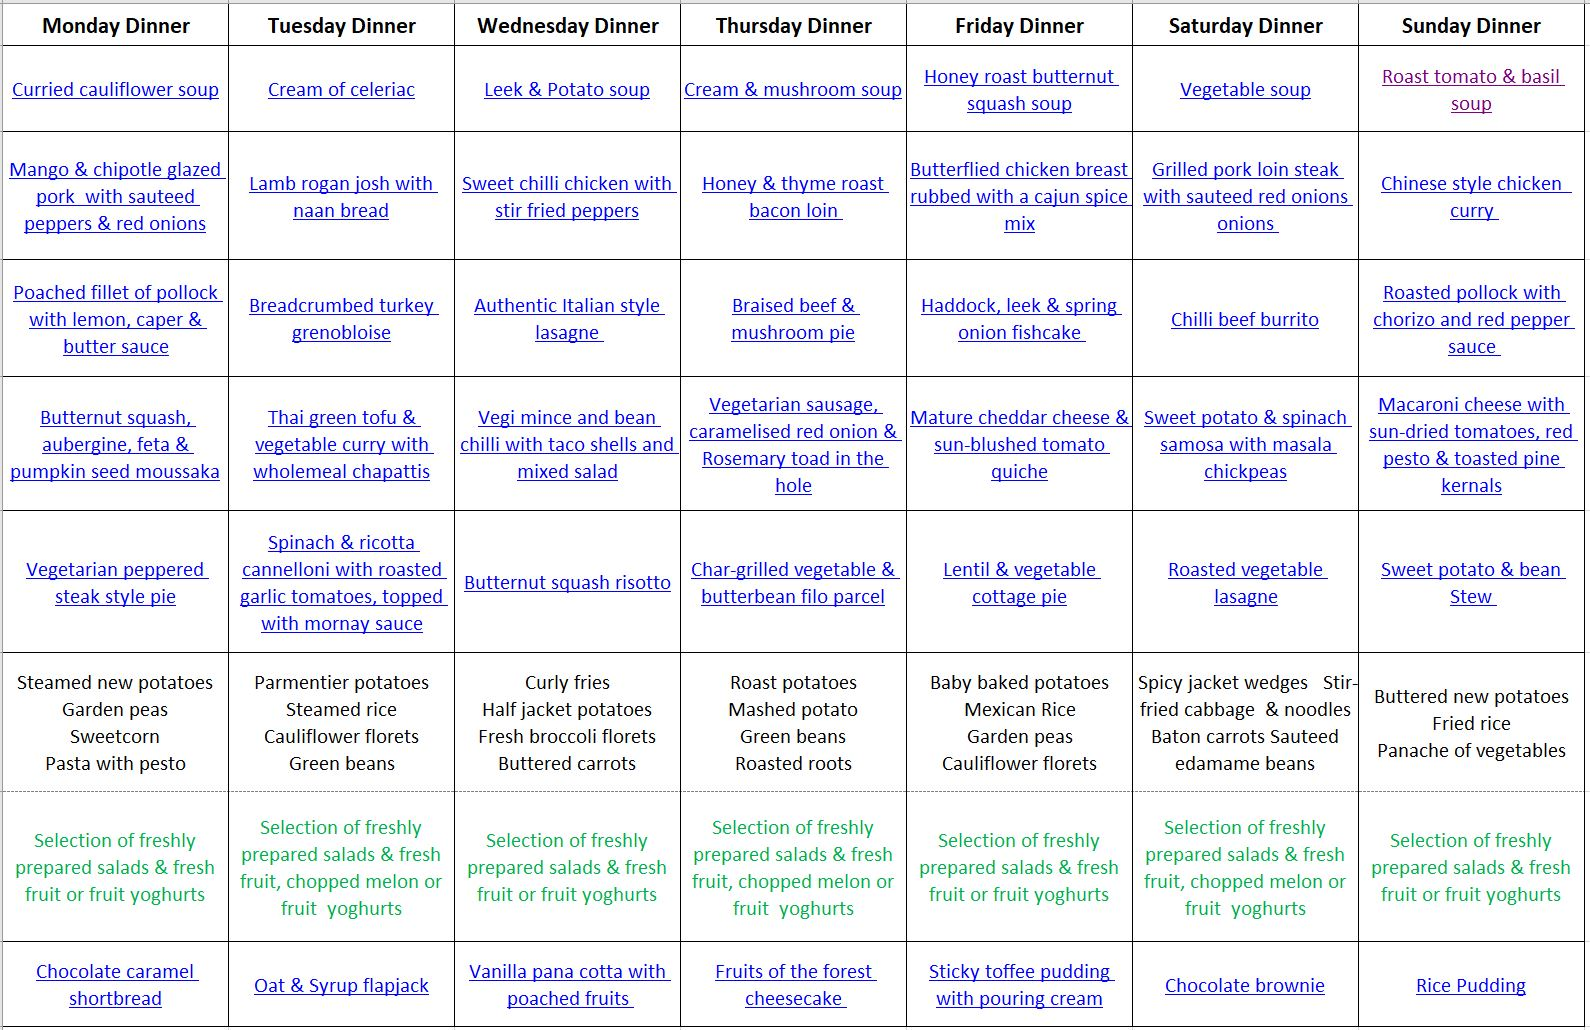
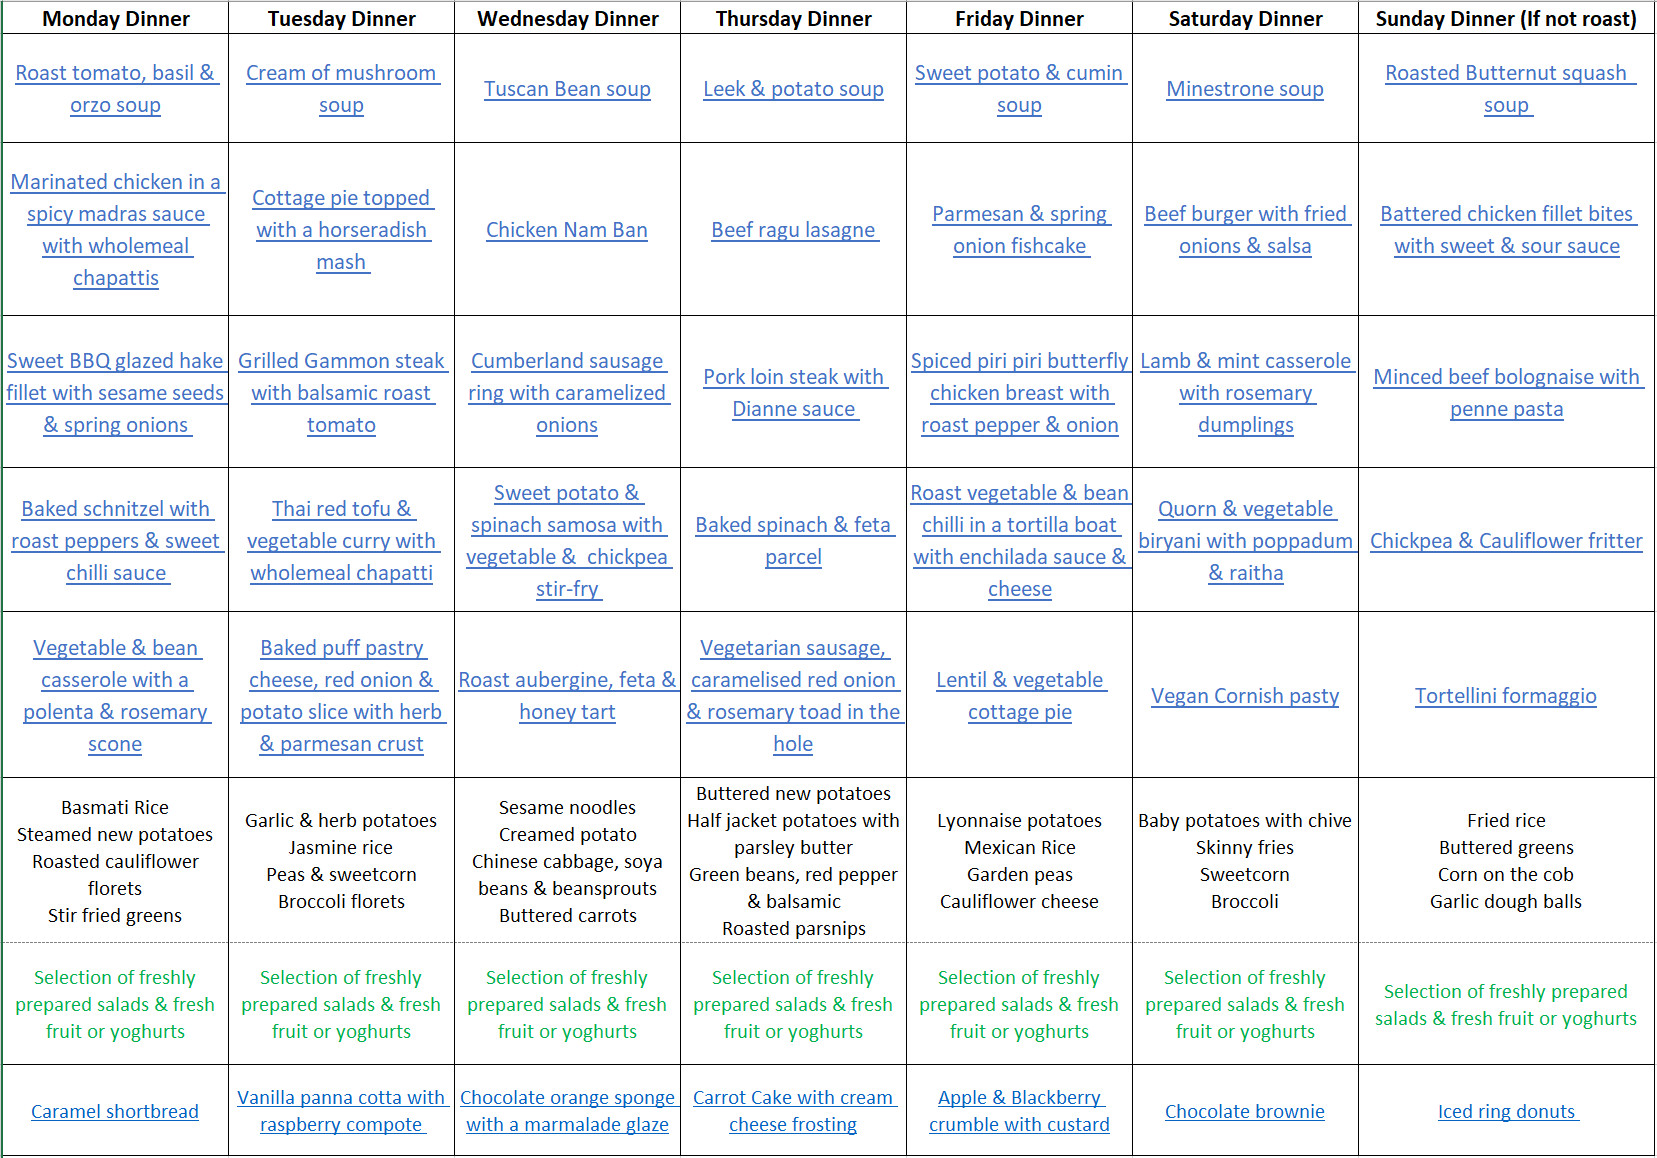
Add new dinner menus
Add new dinner menu images and set term start date.

Changed region(s): [[0.0, 0.0, 1.0, 1.0], [0.9862, 0.7456, 1.0, 0.7767]]

diff --git a/src/routes/info.js b/src/routes/info.js
@@ -3,7 +3,7 @@ var router = express.Router();
 
 /* GET the menus page */
 router.get('/menus', function (req, res, next){
-	start = new Date(2018, 3, 23);
+	start = new Date(2018, 9, 1);
 	now = new Date();
 	week = 7*24*60*60*1000;
 	currWeek = (req.query.week) ? parseInt(req.query.week) : Math.floor((now-start)/week) + 1;
